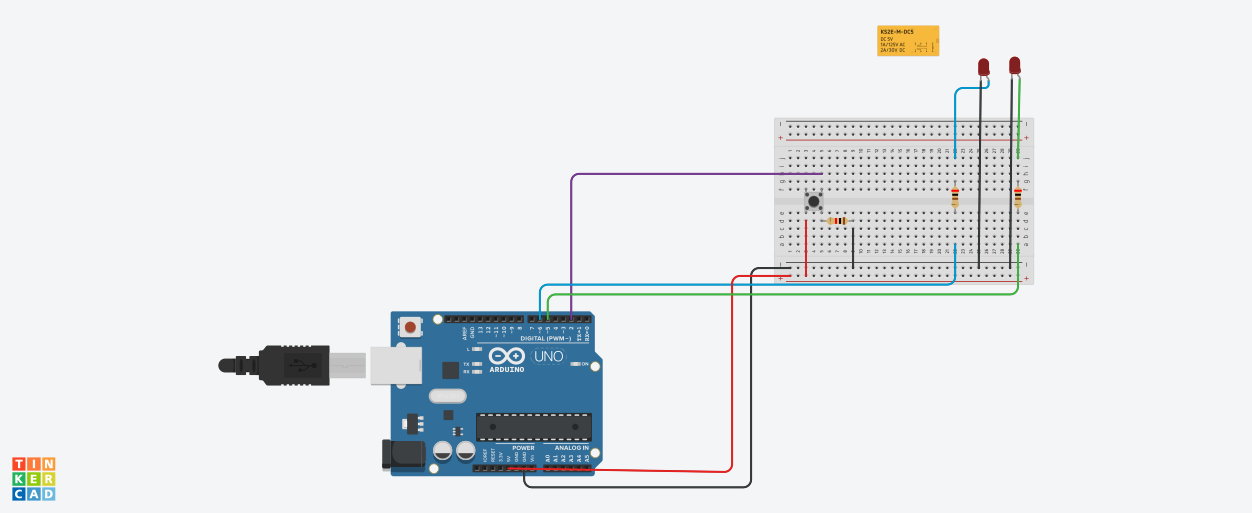
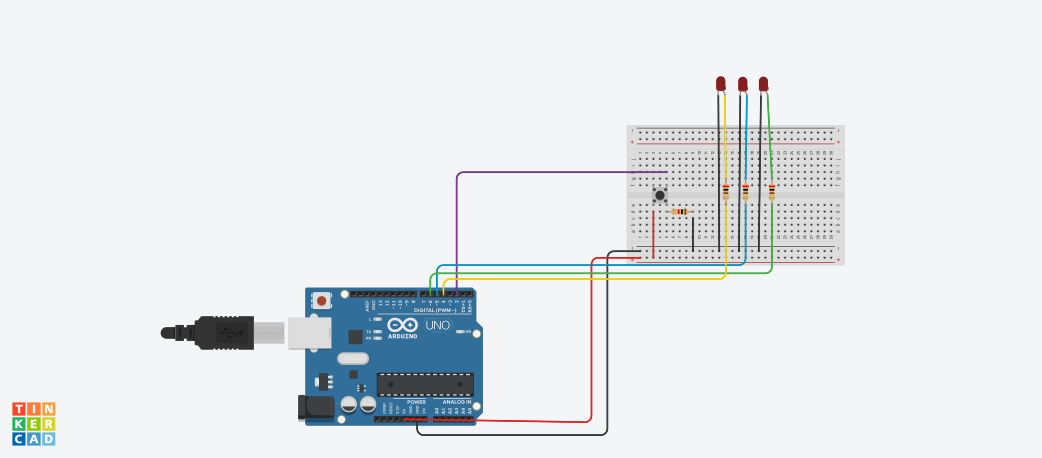
updated docs
lights and functionality aside from relay are now completely working

Changed region(s): [[0.1536, 0.0917, 0.8292, 0.9782], [0.6756, 0.0306, 0.7678, 0.1223], [0.0, 0.8559, 0.0614, 0.9782]]

diff --git a/code.cpp b/code.cpp
@@ -1,7 +1,12 @@
+// amount of time for each move before the clock starts. 
+// equivalent to Fischer time
+const int timePerMove = 4000;
+
 
 const int buttonPin = 2;     // the number of the pushbutton pin
-const int ledPin1 =  6; 
-const int ledPin2 =  5; 
+const int ledPin0 =  4;      // indicates that system is "on" and clocks are active
+const int ledPin1 =  5;      // indicate
+const int ledPin2 =  6; 
 
 
 int activeLed = ledPin1;
@@ -19,8 +24,9 @@ int activeLed = ledPin1;
   
 void setup(){
   pinMode(buttonPin,INPUT); // what does this do?
-  pinMode(ledPin2,OUTPUT);
+  pinMode(ledPin0,OUTPUT);
   pinMode(ledPin1,OUTPUT);
+  pinMode(ledPin2,OUTPUT);
   Serial.begin(9600);
 } 
 
@@ -81,21 +87,24 @@ bool onOff(bool onOffState) {
   // if clock is off turn on LED
   if (onOffState == 0) {
     for ( int x = 0; x < 3; x++ ) {
-      digitalWrite(activeLed, LOW);
+      
+      digitalWrite(ledPin0, LOW);
       delay(200);
-      digitalWrite(activeLed, HIGH);
+      digitalWrite(ledPin0, HIGH);
       delay(500);
       Serial.println("turn on");
     }
+    digitalWrite(activeLed, HIGH);
   } else { 
     // if clock is on turn off LED
     for ( int x = 0; x < 3; x++ ) {
-      digitalWrite(activeLed, HIGH);
+      digitalWrite(ledPin0, HIGH);
       delay(500);
-      digitalWrite(activeLed, LOW);
+      digitalWrite(ledPin0, LOW);
       delay(200);      
       Serial.println("turn off");
       }
+    digitalWrite(activeLed, LOW);
     }
   Serial.println(onOffState);
   onOffState = !onOffState;
@@ -106,3 +115,4 @@ bool onOff(bool onOffState) {
   
     
     
+
